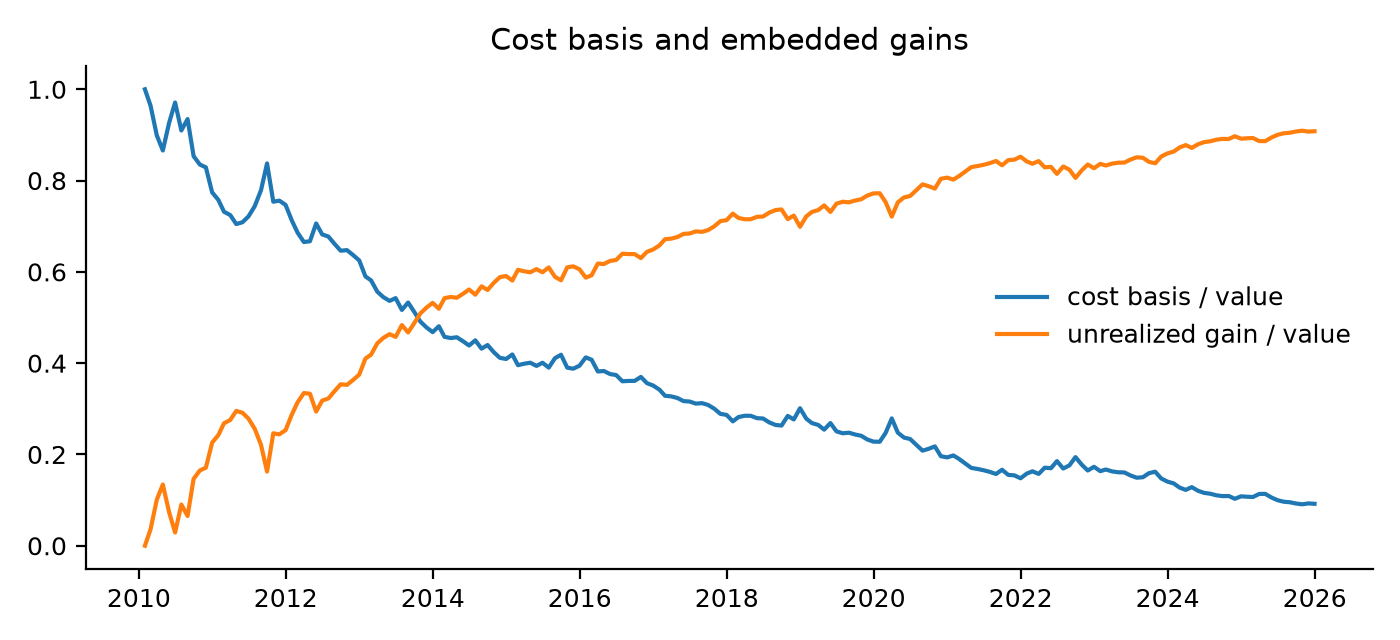
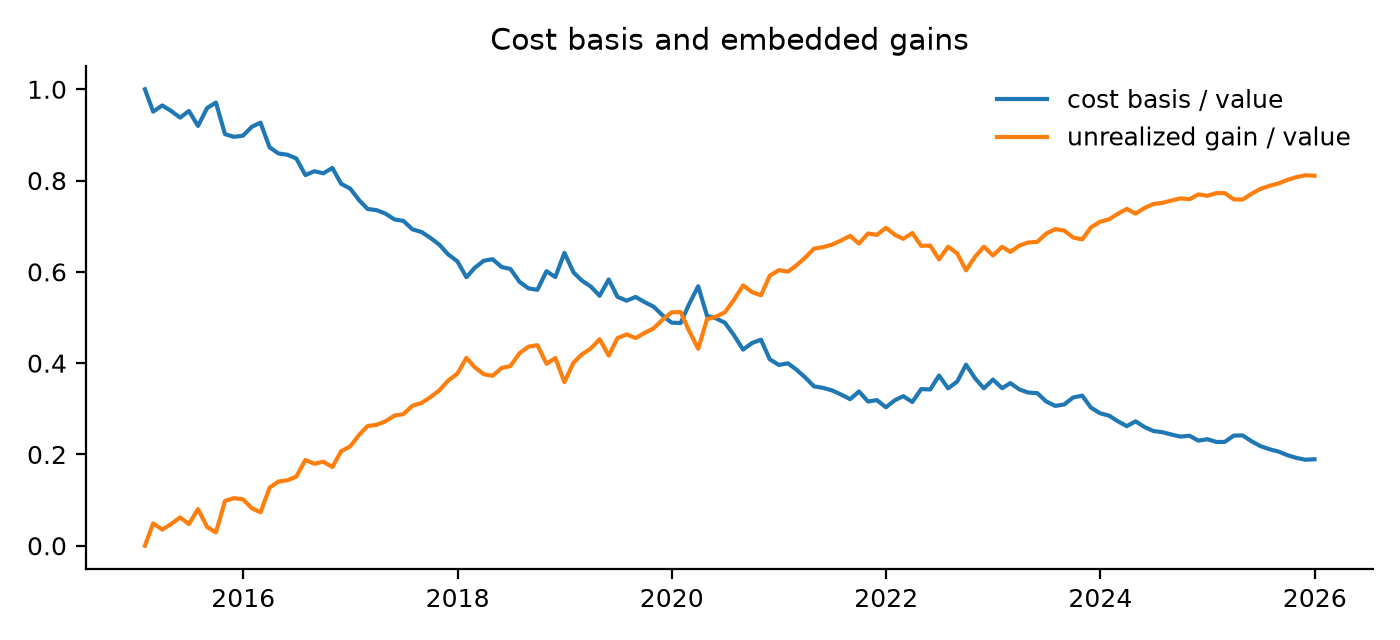
Market-cap weights (split-consistent Yahoo caps), 2015-2025 window

diff --git a/src/universe.py b/src/universe.py
@@ -1,0 +1,91 @@
+"""The investable universe the engine sees: who is in the index, at what price, how big.
+
+Two sources, one interface (members(d), prices, returns, caps, name(t)):
+  CRSPUniverse  - CRSP via WRDS: point-in-time S&P 500 members, delisted stocks
+                  included, market caps from price x shares outstanding.
+  YahooUniverse - free fallback: fja05680 membership, Yahoo prices and shares.
+"""
+from pathlib import Path
+
+import numpy as np
+import pandas as pd
+
+
+def _pick(cols, *names):
+    """First column whose lower-case name is in `names` (CRSP v1 and v2 differ)."""
+    low = {c.lower(): c for c in cols}
+    for n in names:
+        if n in low:
+            return low[n]
+    raise KeyError(f"none of {names} in {list(cols)}")
+
+
+class CRSPUniverse:
+    def __init__(self, constituents_csv, msf_csv, start="2009-01-01", end="2025-12-31"):
+        # --- membership: one row per (PERMNO, start, end) spell in the S&P 500
+        c = pd.read_csv(constituents_csv)
+        self.spells = pd.DataFrame({
+            "permno": c[_pick(c.columns, "permno")].astype(int),
+            "start": pd.to_datetime(c[_pick(c.columns, "start", "mbrstartdt", "startdt")]),
+            "end": pd.to_datetime(c[_pick(c.columns, "ending", "mbrenddt", "enddt", "end")]),
+        })
+
+        # --- monthly stock file: price, total return, shares outstanding
+        m = pd.read_csv(msf_csv, low_memory=False)
+        df = pd.DataFrame({
+            "permno": m[_pick(m.columns, "permno")].astype(int),
+            "date": pd.to_datetime(m[_pick(m.columns, "mthcaldt", "date", "caldt")]),
+            "prc": pd.to_numeric(m[_pick(m.columns, "mthprc", "prc")], errors="coerce").abs(),
+            "ret": pd.to_numeric(m[_pick(m.columns, "mthret", "ret")], errors="coerce"),
+            "shrout": pd.to_numeric(m[_pick(m.columns, "shrout", "mthshrout")], errors="coerce"),
+            "ticker": m[_pick(m.columns, "ticker", "tic", "tsymbol")].astype(str),
+        })
+        df = df[(df["date"] >= start) & (df["date"] <= end)]
+        df = df[df["permno"].isin(self.spells["permno"])]           # only stocks that were ever members
+        df["date"] = df["date"] + pd.offsets.MonthEnd(0)             # align to calendar month-end
+
+        rets = df.pivot_table(index="date", columns="permno", values="ret")
+        # total-return price index: dividends reinvested (MthRet includes delisting returns in CRSP v2)
+        growth = (1 + rets.fillna(0)).cumprod()
+        first = rets.notna().cummax()                                # only after the stock starts trading
+        self.prices = (growth * 100).where(first)
+        self.prices = self.prices.where(rets.notna() | (first & rets.notna().iloc[::-1].cummax().iloc[::-1]))
+        self.returns = rets
+        self.caps = df.pivot_table(index="date", columns="permno", values="prc") * \
+            df.pivot_table(index="date", columns="permno", values="shrout") * 1000
+        last = df.sort_values("date").groupby("permno")["ticker"].last()
+        self.tickers = last.to_dict()
+
+    def members(self, d):
+        s = self.spells
+        return set(s.loc[(s["start"] <= d) & (s["end"] >= d), "permno"])
+
+    def name(self, t):
+        return self.tickers.get(t, str(t))
+
+
+class YahooUniverse:
+    """Fallback: fja05680 membership + Yahoo prices; caps from Yahoo shares (mostly from 2015)."""
+    def __init__(self, membership, daily_px, shares=None, close_split_adj=None):
+        from data import members_on
+        self._mem, self._members_on = membership, members_on
+        self.prices = daily_px.resample("ME").last()
+        self.returns = self.prices.pct_change(fill_method=None)
+        if shares is not None and close_split_adj is not None:
+            # Market cap must use price and shares in the SAME split basis. Yahoo's share
+            # history is in the old basis (GE pre-reverse-split, NVDA pre-split), so use
+            # each stock's LATEST share count with the split-adjusted (not dividend-
+            # adjusted) close: both are in today's basis. Cost: buybacks and issuance
+            # over time are ignored.
+            latest = shares.ffill().iloc[-1]
+            close = close_split_adj.resample("ME").last().reindex(self.prices.index)
+            self.caps = close * latest.reindex(close.columns)
+        else:
+            self.caps = None
+        self.tickers = {t: t for t in self.prices.columns}
+
+    def members(self, d):
+        return self._members_on(self._mem, d)
+
+    def name(self, t):
+        return t

diff --git a/src/engine.py b/src/engine.py
@@ -14,12 +14,12 @@ from dataclasses import dataclass, field
 import numpy as np
 import pandas as pd
 
-from data import members_on
+
 
 
 @dataclass
 class Config:
-    start: str = "2010-01-01"
+    start: str = "2015-01-01"
     end: str = "2025-12-31"
     cash: float = 1_000_000          # the account starts as $1M cash
     harvest: bool = True             # False = the no-harvest twin
@@ -61,13 +61,13 @@ class Book:
 
 
 class Backtest:
-    def __init__(self, cfg, membership, daily_px):
+    def __init__(self, cfg, universe, daily_px):
         self.cfg = cfg
-        self.mem = membership
-        self.daily = daily_px
+        self.u = universe                                                 # members(d), caps
         self.rets = daily_px.pct_change(fill_method=None)                 # daily returns for correlations
         self.monthly = daily_px.resample(cfg.freq).last()                 # prices on each check date
         self.last_px = daily_px.ffill().resample(cfg.freq).last()         # last traded price, for delistings
+        self.caps = universe.caps.reindex(self.monthly.index, method="ffill") if universe.caps is not None else None
         self.book = Book(cash=cfg.cash)
         self.trades = []                                                  # one row per trade
         self.rows = []                                                    # one row per month
@@ -132,11 +132,19 @@ class Backtest:
         corr = window[cands].corrwith(window[x]).dropna()
         return corr.idxmax() if len(corr) else None
 
+    def cap_weights(self, members, d):
+        """Each member's share of the index's total market cap on date d (equal weight if no caps)."""
+        if self.caps is None:
+            return {t: 1 / len(members) for t in members}
+        caps = self.caps.loc[d].reindex(list(members))
+        caps = caps.fillna(caps.median())                                # a missing cap gets a typical size
+        return (caps / caps.sum()).to_dict()
+
     # ---------- one month ----------
     def step(self, d):
         cfg, book = self.cfg, self.book
         px = self.monthly.loc[d]
-        members = {t for t in members_on(self.mem, d) if t in px.index and pd.notna(px[t])}
+        members = {t for t in self.u.members(d) if t in px.index and pd.notna(px[t])}
         waiting = {p["x"] for p in book.pairs}                           # harvested, not yet swapped back
 
         # 1. index exits and delistings: sell everything we hold that is no longer a member
@@ -146,14 +154,16 @@ class Backtest:
                 self.sell_all(t, d, price, "index exit")
         book.pairs = [p for p in book.pairs if p["x"] in members and p["y"] in book.lots]
 
-        # 2. index entries: buy each new member at an equal share of the portfolio
+        # 2. index entries: buy each new member at its market-cap weight in the index
         value = book.value(px)
         new = [t for t in members if t not in book.lots and t not in waiting
                and not self.wash_blocked_buy(t, d)]
         if new:
-            each = min(value / len(members), book.cash / len(new))
+            weights = self.cap_weights(members, d)
+            want = {t: value * weights[t] for t in new}                  # dollars each entrant should get
+            scale = min(1.0, book.cash / sum(want.values()))             # never spend cash we don't have
             for t in sorted(new):
-                self.buy(t, each, d, px[t], "index entry")
+                self.buy(t, want[t] * scale, d, px[t], "index entry")
 
         if cfg.harvest:
             # 3. swap back: 31+ days after a harvest, sell the replacement and rebuy the original

diff --git a/fetch_shares.py b/fetch_shares.py
@@ -1,0 +1,28 @@
+"""Shares outstanding history from Yahoo, for market-cap weights (price x shares)."""
+import sys
+from concurrent.futures import ThreadPoolExecutor
+sys.path.insert(0, "src")
+import pandas as pd
+import yfinance as yf
+from data import download_prices, to_yahoo
+
+px = download_prices([], None, None)
+
+def one(t):
+    try:
+        s = yf.Ticker(to_yahoo(t)).get_shares_full(start="2009-01-01", end="2026-01-01")
+        if s is None or len(s) == 0:
+            return t, None
+        s.index = pd.to_datetime(s.index).tz_localize(None)
+        return t, s.groupby(level=0).last()
+    except Exception:
+        return t, None
+
+with ThreadPoolExecutor(8) as ex:
+    res = dict(ex.map(one, list(px.columns)))
+got = {t: s for t, s in res.items() if s is not None}
+shares = pd.DataFrame(got).sort_index()
+shares.to_pickle("data/shares.pkl")
+first = shares.apply(lambda c: c.first_valid_index())
+print("tickers with shares history:", len(got), "of", px.shape[1])
+print("first date with data, by year:", first.dt.year.value_counts().sort_index().to_dict())

diff --git a/run.py b/run.py
@@ -4,15 +4,17 @@ sys.path.insert(0, "src")
 import pandas as pd
 from data import load_membership, download_prices
 from engine import Config, Backtest
+from universe import YahooUniverse
 
 def main(**overrides):
     mem = load_membership()
     px = download_prices([], None, None)            # cached by fetch.py
+    uni = YahooUniverse(mem, px, pd.read_pickle("data/shares.pkl"), pd.read_pickle("data/close_split_adj.pkl"))
     out = {}
     for name, harvest in [("tlh", True), ("twin", False)]:
         cfg = Config(harvest=harvest, **overrides)
         t0 = time.time()
-        months, trades = Backtest(cfg, mem, px).run()
+        months, trades = Backtest(cfg, uni, px).run()
         months.to_csv(f"output/{name}_months.csv"); trades.to_csv(f"output/{name}_trades.csv", index=False)
         out[name] = (months, trades)
         print(f"{name}: {len(months)} months, {len(trades)} trades, end value {months['value'].iloc[-1]:,.0f}, {time.time()-t0:.0f}s")

diff --git a/analyze.py b/analyze.py
@@ -7,18 +7,21 @@ import matplotlib.pyplot as plt
 import pandas as pd
 
 from data import load_membership, download_prices
+from universe import YahooUniverse
 from engine import Config, Backtest
 from metrics import summary, taxes_by_year
 
 OUT = "output"
 mem = load_membership()
 px = download_prices([], None, None)                       # cached by fetch.py
+shares = pd.read_pickle("data/shares.pkl")                 # Yahoo shares outstanding, for cap weights
+uni = YahooUniverse(mem, px, shares, pd.read_pickle("data/close_split_adj.pkl"))
 spy = pd.read_pickle("data/spy.pkl").iloc[:, 0].resample("ME").last()
 
 
 def run(**kw):
     cfg = Config(**kw)
-    months, trades = Backtest(cfg, mem, px).run()
+    months, trades = Backtest(cfg, uni, px).run()
     return cfg, months, trades
 
 

diff --git a/fetch_close.py b/fetch_close.py
@@ -1,0 +1,18 @@
+"""Split-adjusted (not dividend-adjusted) closes, for market caps = close x current shares."""
+import sys
+sys.path.insert(0, "src")
+import pandas as pd
+import yfinance as yf
+from data import download_prices, to_yahoo
+
+px = download_prices([], None, None)
+tickers = list(px.columns)
+frames = []
+for i in range(0, len(tickers), 100):
+    batch = [to_yahoo(t) for t in tickers[i:i + 100]]
+    frames.append(yf.download(batch, start="2014-12-01", end="2026-01-01", auto_adjust=False,
+                              progress=False, threads=True)["Close"])
+close = pd.concat(frames, axis=1)
+close.columns = [c.replace("-", ".") for c in close.columns]
+close.to_pickle("data/close_split_adj.pkl")
+print("closes:", close.shape)
